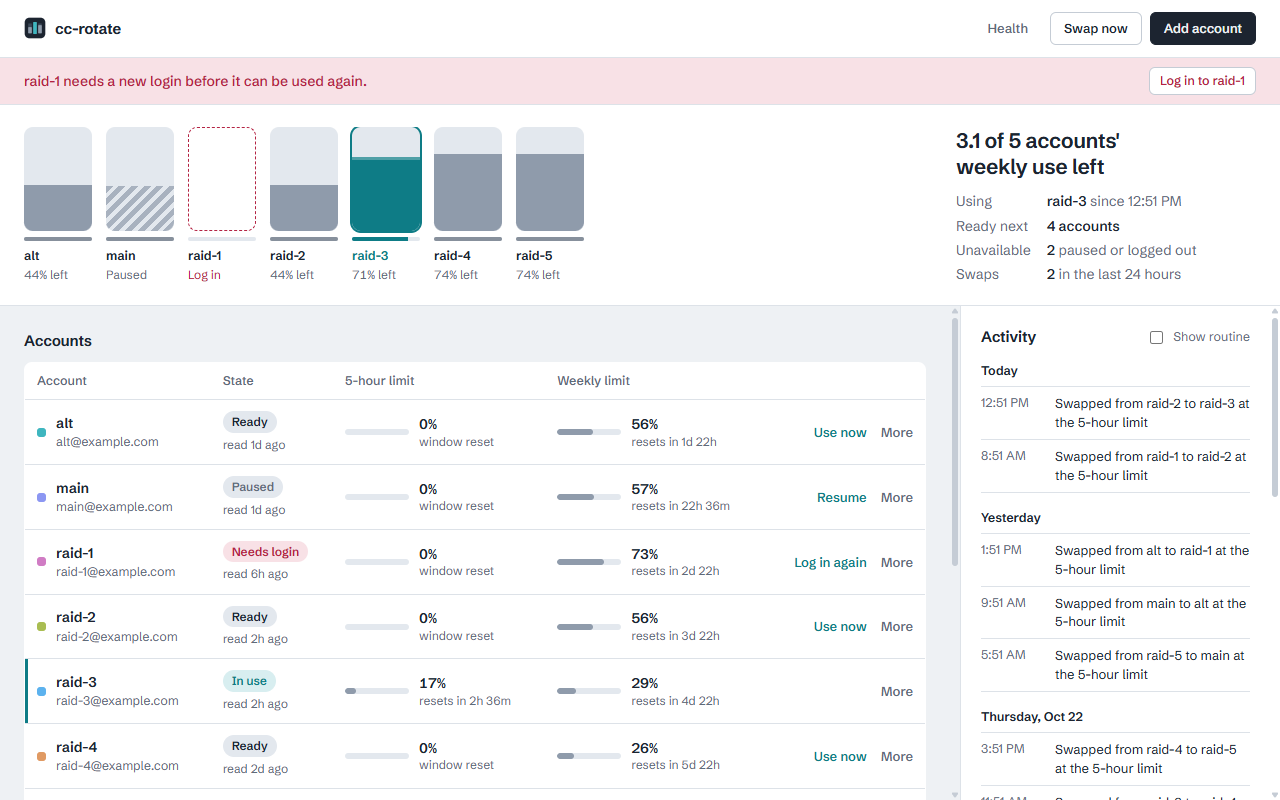
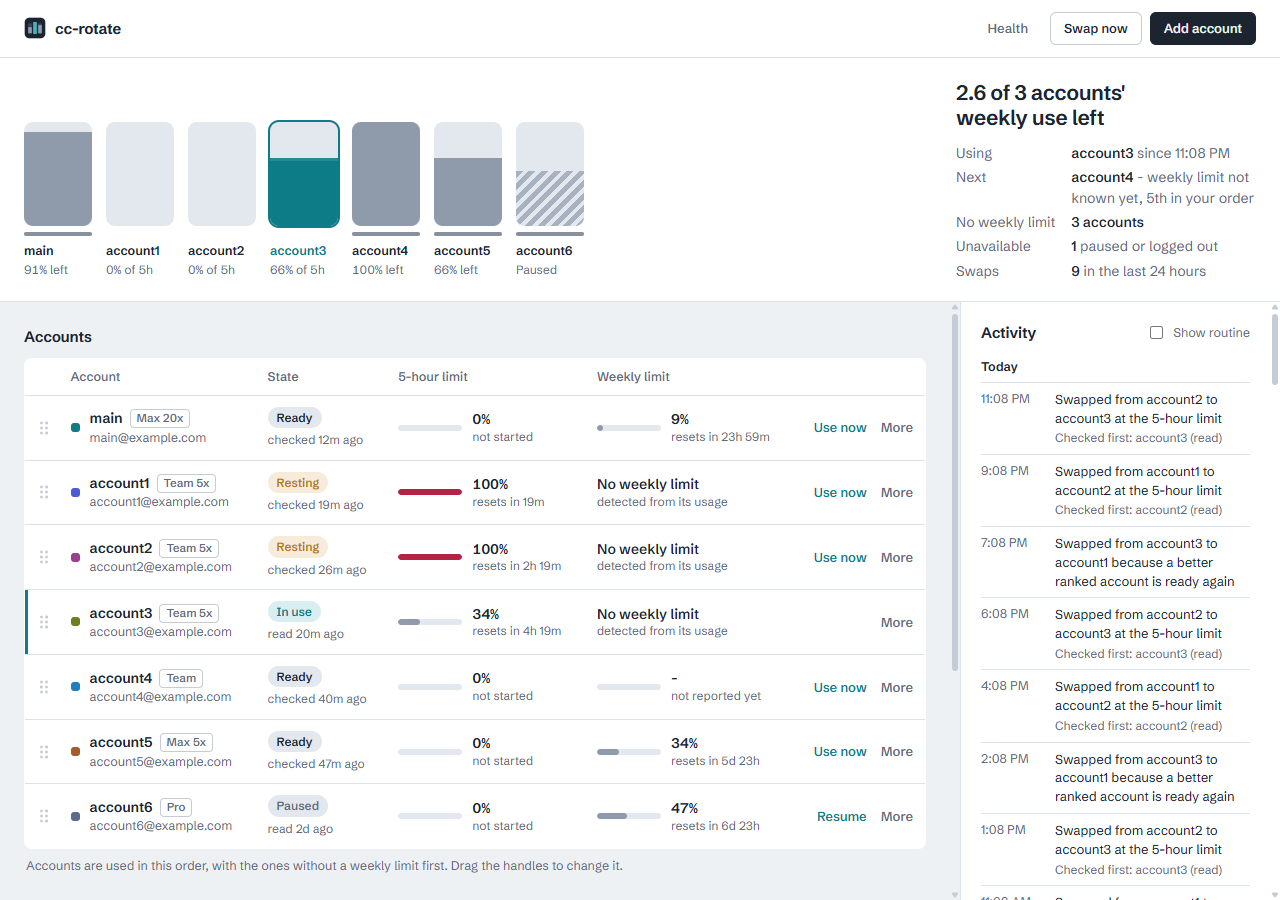
docs: macOS and Linux verified, fresh dashboard screenshots in both themes
The README and the spec say macOS and Linux are verified with real accounts. The screenshots are retaken from the current app on the demo store, in the light and the dark theme (GitHub shows the one matching the reader's), and the demo store and the README examples use account names like main and account1.

diff --git a/crates/ccr-core/examples/demo_store.rs b/crates/ccr-core/examples/demo_store.rs
@@ -3,6 +3,10 @@
 //!
 //!   CC_ROTATE_DATA_DIR=/tmp/cc-rotate-demo cargo run -p ccr-core --example demo_store
 //!
+//! Run the app against it with `CC_ROTATE_PROFILE` set to an empty directory too, so it never
+//! touches your rotation profile. The store's `claude_path` points nowhere, so no usage check or
+//! login ever starts Claude Code with the fictional logins.
+//!
 //! Refuses to touch a store that already has accounts.
 
 use anyhow::{Result, bail};
@@ -12,16 +16,19 @@ use ccr_core::store::{AccountIdentity, AccountState, Sample, SampleWindow, kind}
 use ccr_core::time;
 use serde_json::json;
 
-/// (label, subscription type, rate limit tier, has a weekly limit)
+/// (label, subscription type, rate limit tier, has a weekly limit), in the user's order.
 const ACCOUNTS: &[(&str, &str, &str, bool)] = &[
-    ("team-1", "team", "default_claude_max_5x", false),
-    ("team-2", "team", "default_claude_max_5x", false),
-    ("team-3", "team", "default_claude_team", false),
-    ("team-4", "team", "default_claude_max_5x", false),
-    ("personal", "max", "default_claude_max_20x", true),
-    ("work", "max", "default_claude_max_5x", true),
-    ("side", "pro", "default_claude_pro", true),
+    ("main", "max", "default_claude_max_20x", true),
+    ("account1", "team", "default_claude_max_5x", false),
+    ("account2", "team", "default_claude_max_5x", false),
+    ("account3", "team", "default_claude_max_5x", false),
+    ("account4", "team", "default_claude_team", false),
+    ("account5", "max", "default_claude_max_5x", true),
+    ("account6", "pro", "default_claude_pro", true),
 ];
+
+/// The account left paused.
+const PAUSED: usize = 6;
 
 struct Sim {
     id: i64,
@@ -41,6 +48,8 @@ fn main() -> Result<()> {
             data.display()
         );
     }
+    let nowhere = data.join("no-claude-here");
+    store.set_setting("claude_path", Some(&nowhere.display().to_string()))?;
 
     let now = time::now_ms();
     let hour = 3_600_000;
@@ -71,16 +80,25 @@ fn main() -> Result<()> {
             weekly: *weekly,
             five: 0.0,
             five_resets: 0,
-            week: 12.0 * i as f64 % 40.0,
+            week: 9.0 + 13.0 * i as f64 % 40.0,
             week_resets: (week_start + (8 + i as i64) * 24 * hour) / 1000,
         });
     }
+    let ids: Vec<i64> = sims.iter().map(|s| s.id).collect();
+    store.set_order(&ids)?;
 
-    // A week of rotation the way the scheduler does it: the first account in the order whose
-    // 5-hour window has room carries the load (seats without a weekly limit first), the pool
-    // swaps on at the threshold, and switches back once an earlier account's window resets.
+    // The order the scheduler uses them in: accounts without a weekly limit first, then the
+    // user's order. The paused account is never picked.
+    let mut rank: Vec<usize> = (0..sims.len()).filter(|&i| i != PAUSED).collect();
+    rank.sort_by_key(|&i| (sims[i].weekly, i));
+    let place = |i: usize| rank.iter().position(|&r| r == i).unwrap_or(usize::MAX);
+
+    // A week of rotation the way the scheduler does it: the first account in that order whose
+    // 5-hour window has room carries the load, the pool swaps on at the threshold, after
+    // checking the account it is about to use, and switches back once an earlier account's
+    // window resets.
     let mut t = week_start;
-    let mut current = 0usize;
+    let mut current = rank[0];
     let mut since = t;
     while t < now {
         let t_s = t / 1000;
@@ -90,18 +108,24 @@ fn main() -> Result<()> {
                 s.five_resets = 0;
             }
         }
-        let busy = (9..23).contains(&((t / hour) % 24));
+        // Working hours: the 15 hours before now, and the same hours on earlier days.
+        let busy = (now - t) / hour % 24 < 15;
         let usable = |s: &Sim| s.five < 98.0 && s.week < 98.0;
-        let best = sims.iter().position(usable);
+        let best = rank.iter().copied().find(|&i| usable(&sims[i]));
         let (next, reason) = if !usable(&sims[current]) {
             (best, "threshold_5h")
         } else {
             (
-                best.filter(|&b| b < current && t - since >= hour / 6),
+                best.filter(|&b| place(b) < place(current) && t - since >= hour / 6),
                 "preferred_available",
             )
         };
         if let Some(next) = next.filter(|&n| n != current) {
+            let detail = if reason == "threshold_5h" {
+                json!({ "checked": [{ "label": ACCOUNTS[next].0, "outcome": "read" }] })
+            } else {
+                json!({})
+            };
             store.conn().execute(
                 "INSERT INTO events (ts, kind, account_from, account_to, reason, detail) VALUES (?1, ?2, ?3, ?4, ?5, ?6)",
                 (
@@ -110,7 +134,7 @@ fn main() -> Result<()> {
                     sims[current].id,
                     sims[next].id,
                     reason,
-                    json!({}).to_string(),
+                    detail.to_string(),
                 ),
             )?;
             current = next;
@@ -121,62 +145,90 @@ fn main() -> Result<()> {
             if s.five_resets == 0 {
                 s.five_resets = t_s + 5 * 3600;
             }
-            s.five += 7.0 + (t / 600_000 % 5) as f64;
+            s.five += 16.0 + (t / 600_000 % 5) as f64;
             if s.weekly {
                 s.week += 1.1;
             }
         }
         if s.five_resets != 0 {
-            let mut windows = vec![SampleWindow {
-                name: "five_hour".into(),
-                pct: s.five.min(100.0),
-                resets_at: Some(s.five_resets),
-            }];
-            if s.weekly {
-                windows.push(SampleWindow {
-                    name: "seven_day".into(),
-                    pct: s.week.min(100.0),
-                    resets_at: Some(s.week_resets),
-                });
-            }
             store.record_sample(&Sample {
                 ts: t,
                 account_id: s.id,
                 profile: "rotate".into(),
                 session_id: Some("demo".into()),
                 model: Some("claude-opus-4-1".into()),
-                windows,
+                windows: windows(s),
             })?;
         }
         t += 20 * 60_000;
     }
 
-    // Readings for the accounts that were never used, so every meter has something to show.
-    for s in &sims {
-        if store.last_sample(s.id)?.is_none() && s.weekly {
-            store.record_sample(&Sample {
-                ts: now - 2 * hour,
-                account_id: s.id,
-                profile: "rotate".into(),
-                session_id: None,
-                model: None,
-                windows: vec![SampleWindow {
-                    name: "seven_day".into(),
-                    pct: s.week,
-                    resets_at: Some(s.week_resets),
-                }],
-            })?;
+    // A recent usage check of every account not in use, as the app makes in the background, so
+    // every meter has a fresh reading and none is due for a check. Paused accounts are not
+    // checked: the paused one keeps a reading from before it was paused.
+    for (i, s) in sims.iter().enumerate() {
+        if i == current {
+            continue;
         }
+        let paused = i == PAUSED;
+        store.record_sample(&Sample {
+            ts: if paused {
+                now - 2 * 24 * hour
+            } else {
+                now - (12 + 7 * i as i64) * 60_000
+            },
+            account_id: s.id,
+            profile: if paused { "rotate" } else { "check" }.into(),
+            session_id: None,
+            model: None,
+            windows: checked_windows(s),
+        })?;
     }
 
     store.immediate(|st| {
         st.set_state(sims[current].id, AccountState::Active)?;
-        st.set_state(sims[5].id, AccountState::Paused)?;
-        st.set_state(sims[6].id, AccountState::NeedsLogin)?;
+        st.set_state(sims[PAUSED].id, AccountState::Paused)?;
         st.set_meta("active_since", since)?;
         st.set_meta("last_swap_at", since)?;
         Ok(())
     })?;
     println!("Demo store written to {}", data.display());
     Ok(())
+}
+
+/// What a usage check reports: the 5-hour window too while none is open, at 0% with no reset.
+fn checked_windows(s: &Sim) -> Vec<SampleWindow> {
+    let mut windows = windows(s);
+    if s.five_resets == 0 {
+        windows.insert(
+            0,
+            SampleWindow {
+                name: "five_hour".into(),
+                pct: 0.0,
+                resets_at: None,
+            },
+        );
+    }
+    windows
+}
+
+/// The account's windows as Claude Code reports them: the 5-hour window while one is open, and
+/// the weekly window for an account that has one.
+fn windows(s: &Sim) -> Vec<SampleWindow> {
+    let mut windows = Vec::new();
+    if s.five_resets != 0 {
+        windows.push(SampleWindow {
+            name: "five_hour".into(),
+            pct: s.five.min(100.0),
+            resets_at: Some(s.five_resets),
+        });
+    }
+    if s.weekly {
+        windows.push(SampleWindow {
+            name: "seven_day".into(),
+            pct: s.week.min(100.0),
+            resets_at: Some(s.week_resets),
+        });
+    }
+    windows
 }

diff --git a/README.md b/README.md
@@ -6,7 +6,10 @@ Running sessions keep going on their next request, with no restart and no proxy.
 
 Because every session lives in one profile, sessions can see and message each other, and their history lives in one place.
 
-![The cc-rotate dashboard](docs/screenshot.png)
+<picture>
+  <source media="(prefers-color-scheme: dark)" srcset="docs/screenshot-dark.png">
+  <img alt="The cc-rotate dashboard" src="docs/screenshot.png">
+</picture>
 
 > **Unofficial.** cc-rotate is a community project and is not affiliated with or endorsed by Anthropic.
 > It is meant for people who personally hold more than one Claude subscription.
@@ -37,7 +40,7 @@ The design, with the Claude Code behavior it relies on, is in [docs/specs/2026-1
 
 | | Windows 10 and 11 | Linux | macOS |
 |---|---|---|---|
-| Rotation | Supported, verified with real accounts | Supported; Claude Code keeps its login in the same file as on Windows | Experimental, not yet verified on a Mac |
+| Rotation | Supported, verified with real accounts | Supported, verified with real accounts (in WSL); Claude Code keeps its login in the same file as on Windows | Supported, verified with real accounts, with the login in the Keychain and in the file |
 | Desktop app | Supported | Builds; needs a desktop with a system tray | Builds; runs as a plain executable, not an app bundle |
 | Data folder | `%LOCALAPPDATA%\cc-rotate` | `~/.local/share/cc-rotate` | `~/Library/Application Support/cc-rotate` |
 
@@ -46,7 +49,8 @@ The design, with the Claude Code behavior it relies on, is in [docs/specs/2026-1
 On macOS, Claude Code keeps its login in the Keychain rather than in a file, and cc-rotate swaps the Keychain item.
 Claude Code rereads that item at most every 30 seconds, so a swap reaches running sessions within about 30 seconds instead of on their next request.
 Start Claude Code with `cc-rotate` there: the Keychain item is named after the exact profile path, which `cc-rotate` sets for you.
-If you try it on a Mac, `cc-rotate-ctl doctor` shows where the login lives, and reports of what works and what does not are very welcome.
+Over SSH, where the Keychain cannot be used, Claude Code keeps the login in the file instead, and cc-rotate follows it there.
+`cc-rotate-ctl doctor` shows where the login lives.
 
 ## Requirements
 
@@ -89,7 +93,7 @@ Add each account once.
 Either open the app (`cc-rotate-ctl dashboard`) and choose **Add account**, or use the terminal:
 
 ```sh
-cc-rotate-ctl login --email you@example.com --label work
+cc-rotate-ctl login --email account1@example.com --label account1
 ```
 
 A browser window opens on Claude's sign-in page.
@@ -100,8 +104,8 @@ The first account you add becomes the active one.
 
 These are fresh logins, separate from any other Claude Code profiles you already use, so adding an account here never logs you out anywhere else.
 
-If you already have a Claude Code profile per account (for example `~/.claude-work`), `cc-rotate-ctl profiles` lists them with the account each one belongs to.
-`cc-rotate-ctl login --from-profile work` then signs that account in fresh, with its email and label filled in, and refuses the login if a different account signs in.
+If you already have a Claude Code profile per account (for example `~/.claude-account1`), `cc-rotate-ctl profiles` lists them with the account each one belongs to.
+`cc-rotate-ctl login --from-profile account1` then signs that account in fresh, with its email and label filled in, and refuses the login if a different account signs in.
 cc-rotate only reads those profiles to find out which account they belong to; it never copies or changes their logins.
 
 ## Daily use

diff --git a/docs/specs/2026-10-24-cc-rotate.md b/docs/specs/2026-10-24-cc-rotate.md
@@ -2,8 +2,8 @@
 
 Status: draft for review, 2026-10-24.
 Tested against Claude Code 2.1.310 on Windows 11 (native install).
-Linux behavior was read from the 2.1.310 linux-x64 build and runs the Windows code paths unchanged.
-macOS behavior was read from the 2.1.310 darwin-arm64 build (section 18) and is not yet verified on hardware.
+Linux behavior was read from the 2.1.310 linux-x64 build and runs the Windows code paths unchanged; verified with real accounts in WSL.
+macOS behavior was read from the 2.1.310 darwin-arm64 build (section 18) and verified with real accounts on a Mac: swaps through the Keychain in a desktop session and through the file over SSH, a renewal during a usage check, and identifying a changed login.
 
 ## 1. Goal
 
@@ -19,7 +19,6 @@ A local dashboard shows every account, its live and historical usage, and how ro
   All Anthropic traffic is Claude Code's own; a usage check (section 20) runs Claude Code's `/usage`, and a login renewed during one was renewed by Claude Code.
 - The Claude desktop app is out of scope.
   It injects its own token through environment variables and owns refresh, and Claude Code prefers an injected token over `.credentials.json`, so a file swap cannot reach it.
-- Claiming macOS support before it is verified: rotation on macOS is experimental until the section 15 suite has run on a Mac (section 18).
 - Profiles the user already has (for example one `CLAUDE_CONFIG_DIR` per account) are not changed, except for the opt-in usage reporting in section 9.
 
 ## 3. What Claude Code already does (research findings)
